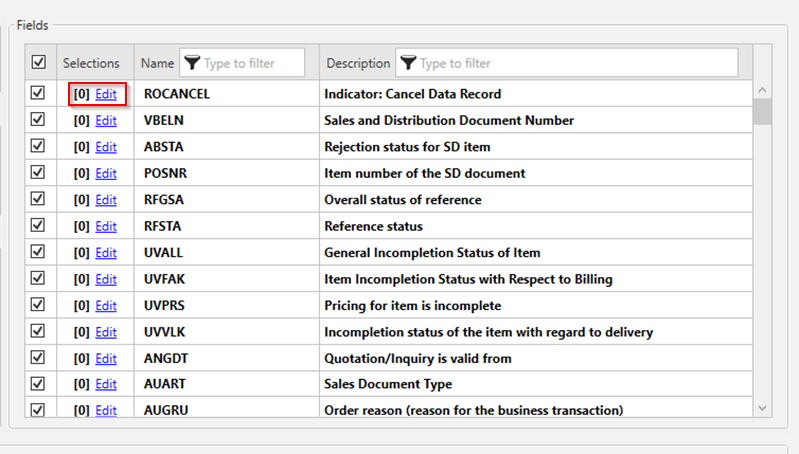
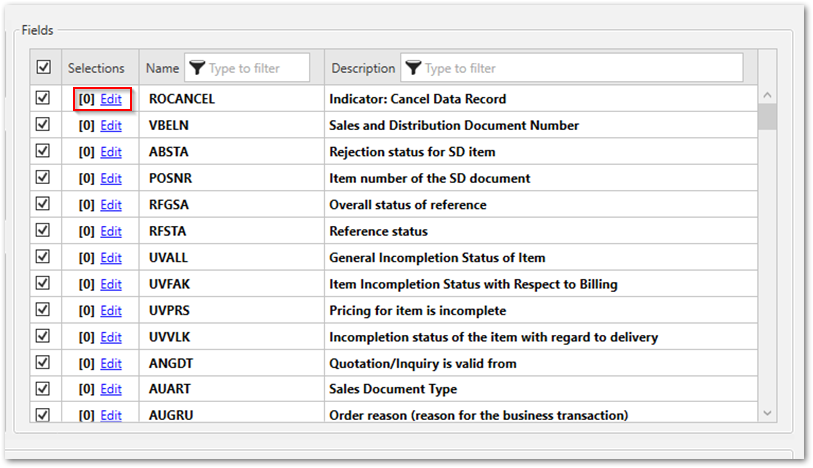
deadlink correction

Changed region(s): [[0.0, 0.0, 1.0, 1.0]]

diff --git a/content/_en/xtract-is/deltaq/miscellaneous.md b/content/_en/xtract-is/deltaq/miscellaneous.md
@@ -10,7 +10,7 @@ weight: 10
 lang: en_GB
 ---
 
-### HELPFUL TRANSACTIONS IN THE SAP SYSTEM FOR WORKING WITH DATASOURCES
+## HELPFUL TRANSACTIONS IN THE SAP SYSTEM FOR WORKING WITH DATASOURCES
 
 ### Initial setup
 * SBIW - SAP DataSources start page
@@ -26,24 +26,24 @@ lang: en_GB
 * SM50 - Process overview
 * SMGW - Gateway Monitor
 
-### Other
+### Other 
 * RSA7 - Delta Queue Maintenance
 * SMQ1 - qRFC Monitor (outbound queue)
 * WE02 - IDoc list
 * WE20 - Partner profiles
 
 
-### Helpful links about extractors (DataSources)
+## Helpful links about extractors (DataSources)
 
 * [DeltaQ Troubleshooting Guide (KB)](https://kb.theobald-software.com/xtract-is/deltaq-troubleshooting-guide)
 * [How to activate DataSources in the SAP OLTP System (Blog)](http://theobald-software.com/blog/2013/04/15/activating-datasources-in-the-oltp-system/)
 * [How to activate activate the BI Content DataSource (SAP Help)](http://help.sap.com/saphelp_nw70ehp2/helpdata/en/d8/8f5738f988d439e10000009b38f842/content.htm)
 * [How to extract data from SAP BW/BI via Export DataSources (Blog)](http://theobald-software.com/blog/2010/06/17/extracting-data-from-sap-bwbi-via-export-datasources-with-xtract-is/)
 * [How to create Generic DataSource using Function Module and Timestamps (Blog)](http://theobald-software.com/blog/2011/02/16/create-generic-datasource-using-function-module-and-timestamps/)
-* [How to Create Generic DataSources which use the Delta Queue (SAP Community Network)](/https://archive.sap.com/kmuuid2/d3219af2-0c01-0010-71ac-dbb4356cf4bf/How%20to%20Create%20Generic%20Data%20Sources%20which%20use%20the%20Delta%20Queue.pdf)
+* [How to Create Generic DataSources which use the Delta Queue (SAP Community Network)](https://archive.sap.com/documents/docs/DOC-16098)
 * [How to create a generic extractor for BW (SAP Community Network)](http://www.sdn.sap.com/irj/scn/go/portal/prtroot/docs/library/uuid/a0f46157-e1c4-2910-27aa-e3f4a9c8df33?QuickLink=index&overridelayout=true)
 
-### OTHER
+## Other
 ### Execute DeltaQ in parallel
 You can execute multiple DataSource with the same RFC destination in parallel.
 However, it is recommended to use a separate RFC destination for each parallel DeltaQ extraction, for example XTRACT01, XTRACT02, and so on.

diff --git a/content/_en/xtract-universal/xu-destinations/odata/set-odata-destination.md b/content/_en/xtract-universal/xu-destinations/odata/set-odata-destination.md
@@ -1,7 +1,7 @@
 ---
 ref: xu-odata-01
 layout: page
-title: Set OData destination
+title: Setting OData destination
 description: Set OData destination
 product: xtract-universal
 parent: odata
@@ -11,7 +11,7 @@ lang: en_GB
 old_url: /Xtract-Universal-EN/default.aspx?pageid=set_odata_destination
 ---
 
-### Setting OData destination
+### To set OData destination
 **Requirement:** An extraction is created (see [Create an extraction](../../getting-started-table/define-a-table-extraction)).
 1. In the main window of the Designer, navigat to menu item **Server > Manage Destinations**.
 2. Define a default http-odata-atom-Destination (see [Managing destinations](../managing-destinations) and [OData](../odata) ).

diff --git a/content/_de/xtract-universal/xu-zielumgebungen/odata-atom.md b/content/_de/xtract-universal/xu-zielumgebungen/odata-atom.md
@@ -19,6 +19,8 @@ Folgende getesteten Programme können Daten über OData erfolgreich konsumieren:
 - Datazen
 - [Tableau Software](./tableau) 
 
+### Einstellungen von OData-Destination
+
 Folgende Einstellungen können für das Ziel OData Atom definiert werden.
 
 ![Odata-Atom-Destination-Details](/img/content/Odata-Atom-Destination-Details.png){:class="img-responsive"}

diff --git a/content/_en/xtract-universal/xu-destinations/odata.md b/content/_en/xtract-universal/xu-destinations/odata.md
@@ -19,6 +19,8 @@ The following tested programs can successfully consume data via OData: <br>
 - Datazen
 - [Tableau](./tableau)
  
+### OData destination settings
+ 
 The following settings can be defined for the OData destination.
 
 ![Odata-Atom-Destination-Details](/img/content/Odata-Atom-Destination-Details.png){:class="img-responsive"}

diff --git a/content/_en/xtract-universal/xu-destinations/csv-flat-file.md b/content/_en/xtract-universal/xu-destinations/csv-flat-file.md
@@ -7,7 +7,7 @@ product: xtract-universal
 parent: xu-destinations
 childidentifier: csv-flat-file
 permalink: /:collection/:path
-weight: 12
+weight: 11
 lang: en_GB
 old_url: /Xtract-Universal-EN/default.aspx?pageid=csv-flat-file
 ---
